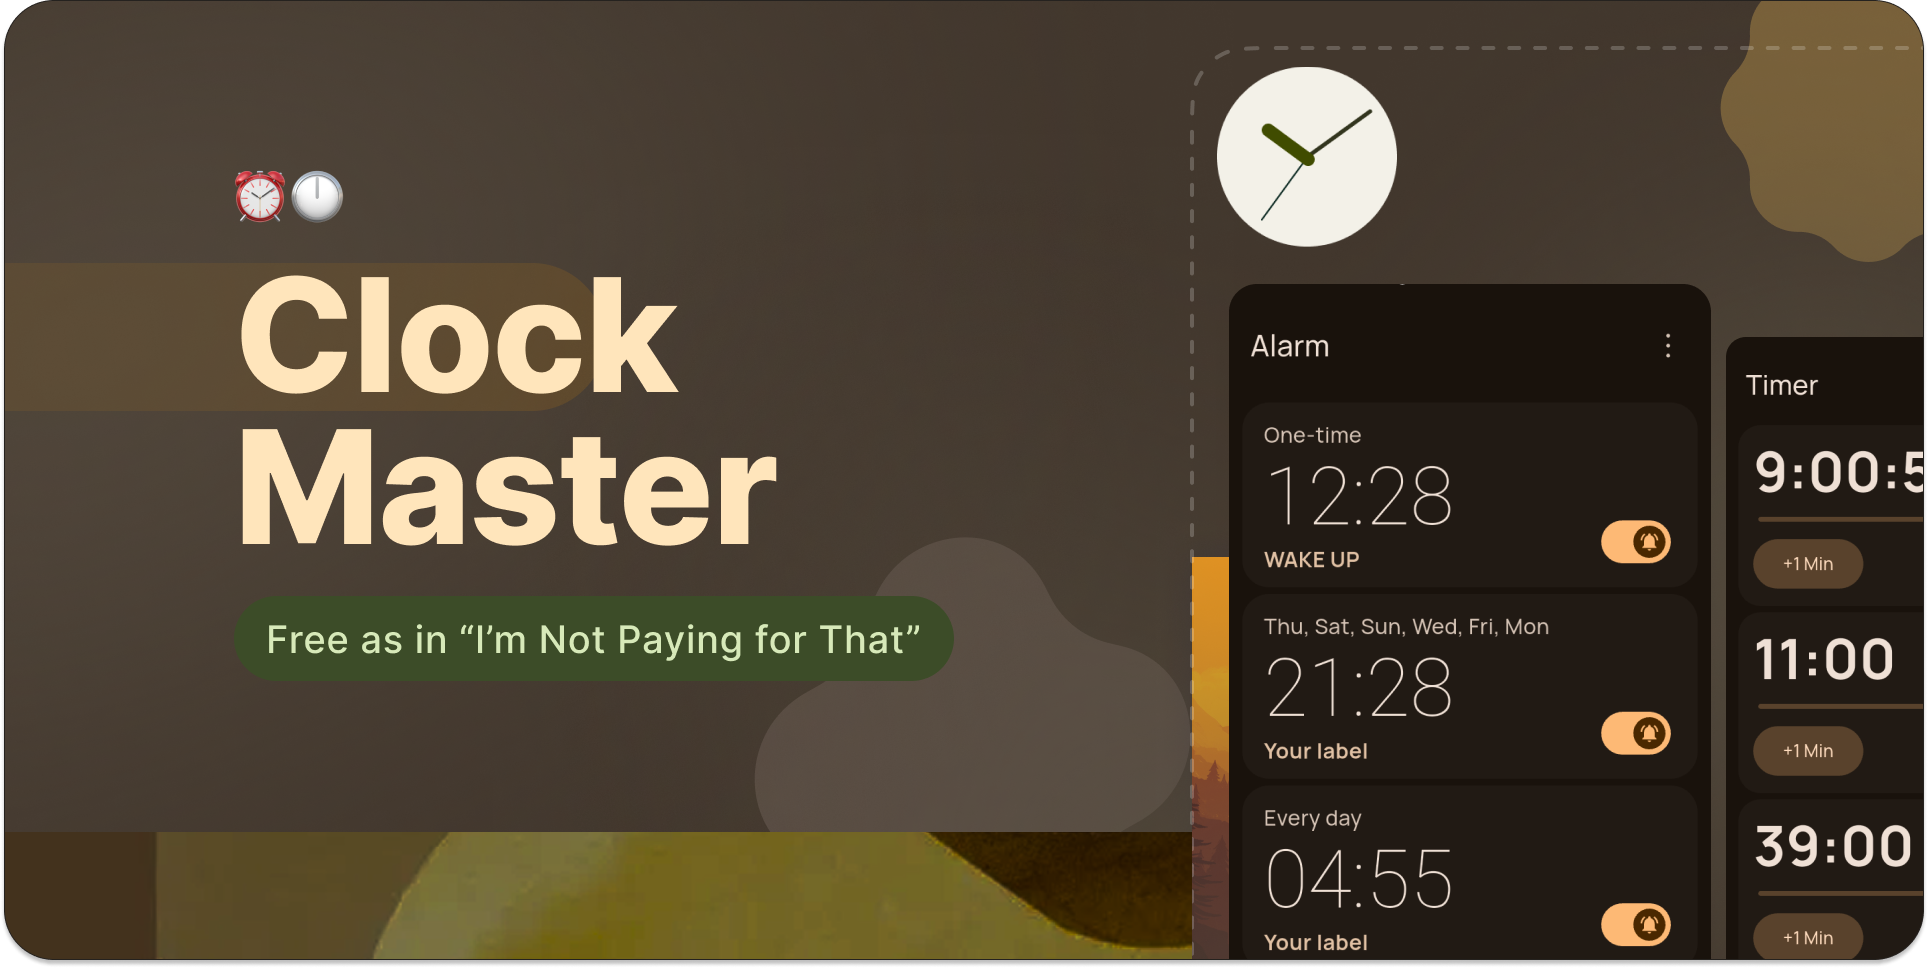
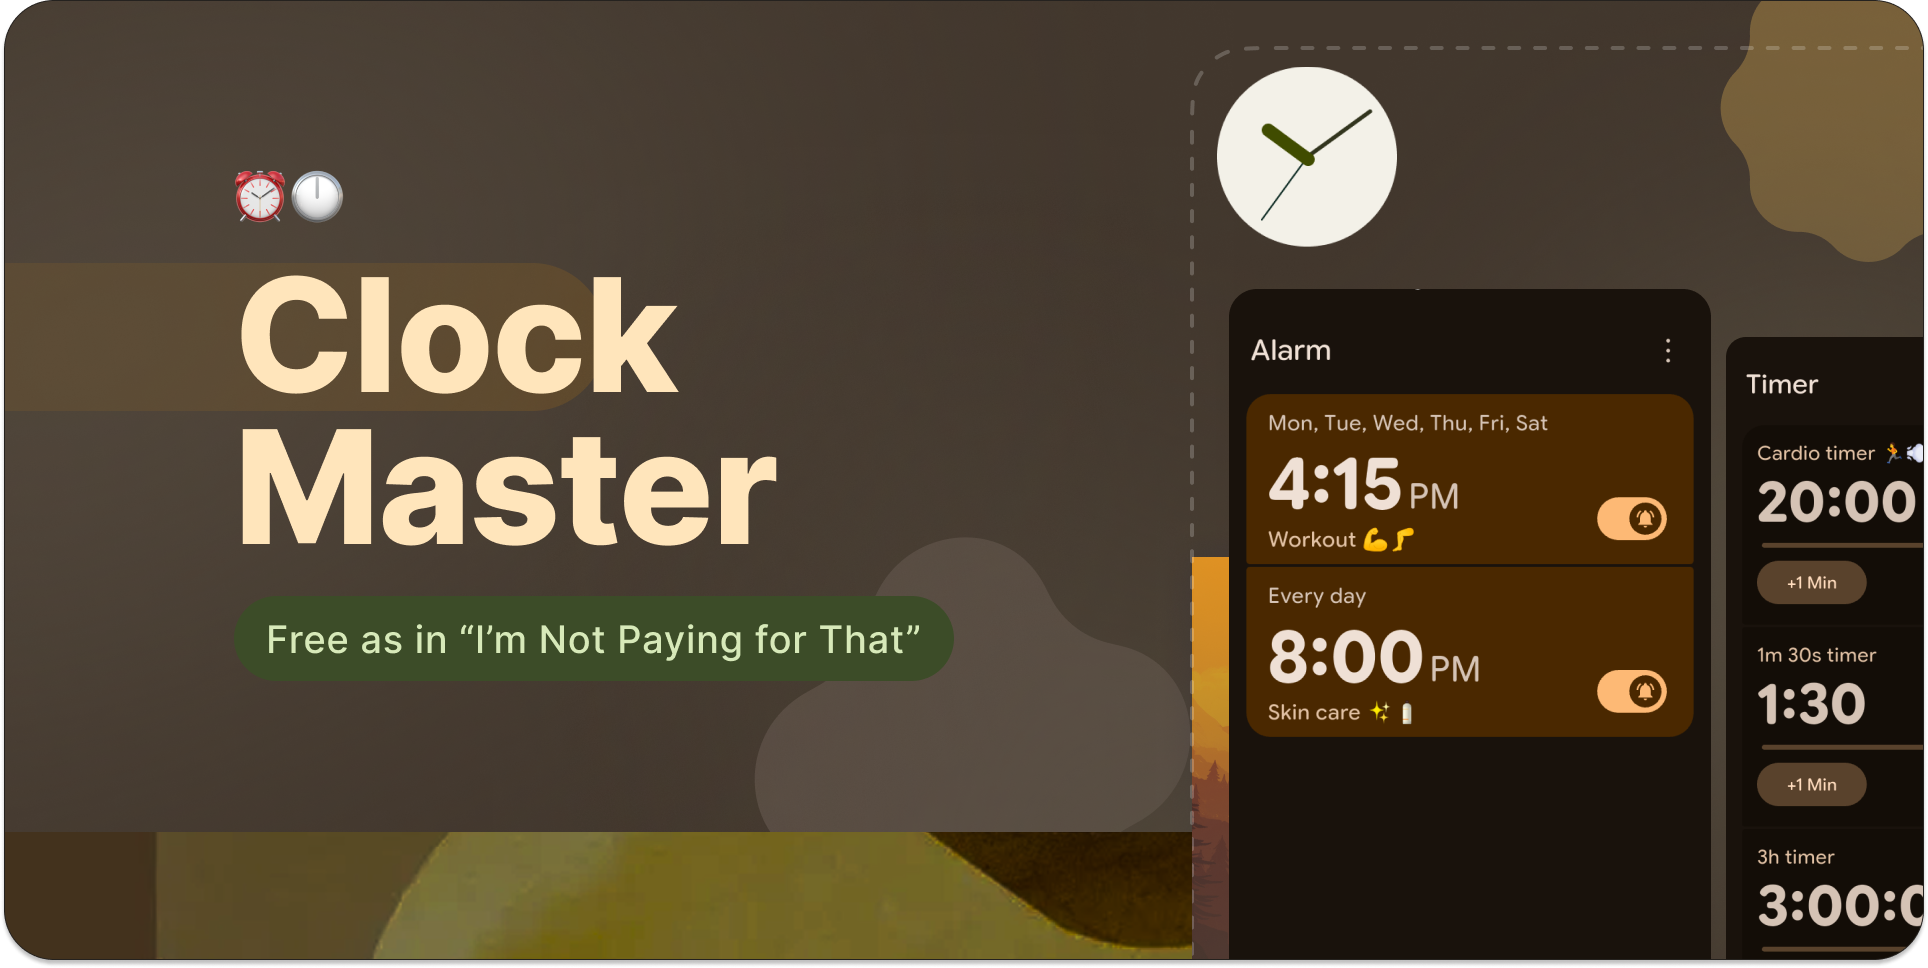
update thumbnail

diff --git a/lib/screens/home.dart b/lib/screens/home.dart
@@ -257,19 +257,16 @@ class _HomePageState extends State<HomePage> with WidgetsBindingObserver {
                 value: 'openSettings',
 
                 padding: EdgeInsets.only(left: 14),
-                // child: Text('Settings', style: TextStyle(fontSize: 16)),
                 child: menuItemRow(Symbols.settings, "settings".tr()),
               ),
               PopupMenuItem<String>(
                 value: 'openScreenSaver',
                 padding: EdgeInsets.only(left: 14, right: 6),
-                // child: Text('Screen saver', style: TextStyle(fontSize: 16)),
                 child: menuItemRow(Symbols.mobile_text_2, "screen_saver".tr()),
               ),
               PopupMenuItem<String>(
                 value: 'openAboutScreen',
                 padding: EdgeInsets.only(left: 14, right: 6),
-                // child: Text('About', style: TextStyle(fontSize: 16)),
                 child: menuItemRow(Symbols.info, "about".tr()),
               ),
             ],
@@ -397,11 +394,11 @@ class _HomePageState extends State<HomePage> with WidgetsBindingObserver {
         labelTextStyle: WidgetStateProperty.all(
           TextStyle(fontWeight: FontWeight.w500, color: colorTheme.onSurface),
         ),
-
         destinations: [
           NavigationDestination(
             icon: IconWithWeight(Symbols.alarm),
             selectedIcon: IconWithWeight(Symbols.alarm, fill: 1),
+
             label: 'alarm'.tr(),
           ),
           NavigationDestination(